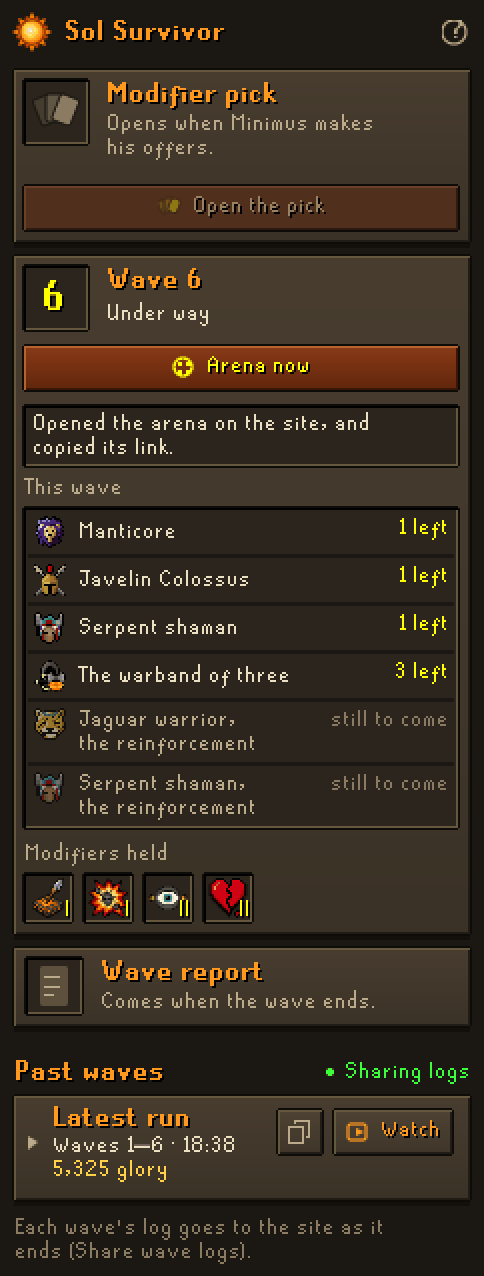
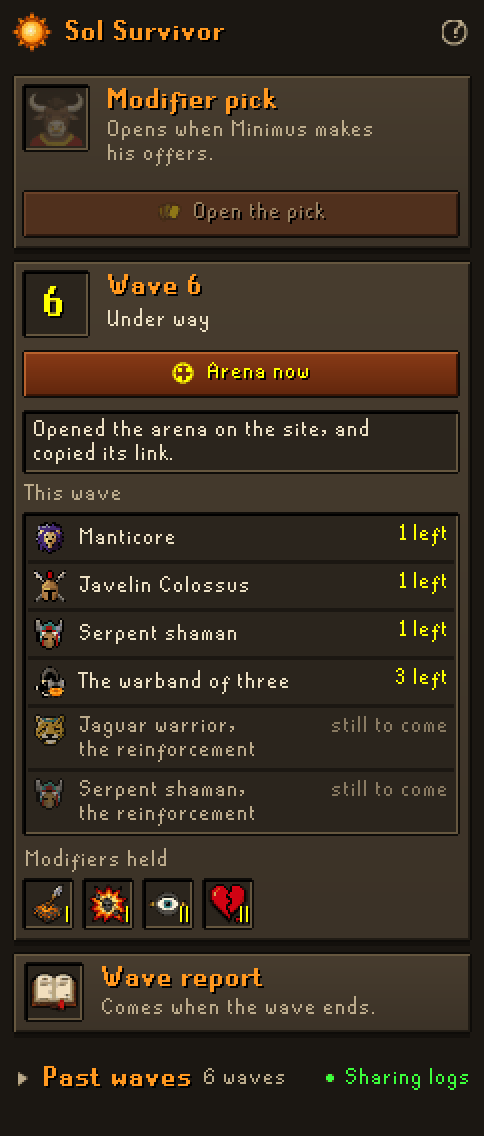
Sol Survivor 1.0.0, from Sol Survivor 156417baafd4

diff --git a/src/main/java/nl/dexanddice/solsurvivor/SolSurvivorPanel.java b/src/main/java/nl/dexanddice/solsurvivor/SolSurvivorPanel.java
@@ -45,9 +45,9 @@ import net.runelite.client.ui.PluginPanel;
  * page of its own, which takes the panel's place until Back; the death recap after a death; and on each past wave its
  * mistakes. Each row shows only in the moment it is about (the user's ask of 2026-10-26, "Plugin 1.0: what the panel
  * shows when"): the pick's only while Minimus offers, at the top; Arena now only in the arena; the recap only out of it,
- * after a death, over the rest; the leaderboard's only out of the arena; and during a wave the runs fold shut, unless
- * the player opened one. Like the rest of the plugin the panel shows nothing about how to play the wave; the plans are
- * the site's.
+ * after a death, over the rest; the leaderboard's only out of the arena; and in the arena Past waves fold into their
+ * heading until the player opens them (the user's ask of 2026-10-27). Like the rest of the plugin the panel shows nothing
+ * about how to play the wave; the plans are the site's.
  */
 class SolSurvivorPanel extends PluginPanel
 {
@@ -210,7 +210,8 @@ class SolSurvivorPanel extends PluginPanel
 	/** The help, in the tooltip of the question mark beside the panel's title. */
 	private static final String HELP = "Arena now opens the wave on the Sol Survivor site as it is now, and copies its link. "
 		+ "Modifier pick opens Minimus's three offers there while he makes them. Under Past waves, a wave's buttons open it at "
-		+ "its start, the wave under way too, or on the tick its reinforcements came, and copy its log to paste into the site. "
+		+ "its start, the wave under way too, or on the tick its reinforcements came, and copy its log to paste into the site; "
+		+ "in the arena, Past waves folds into its heading until you click it. "
 		+ "With Upload past runs on in the settings, Watch uploads that run's tiles, hitpoints, prayers, hits and recorded gear "
 		+ "to the site, where anyone with its link can view it for seven days. With Share wave logs on, each wave's log goes to "
 		+ "the site, without your levels, as the wave ends, and with Leaderboard on too, each wave you finish goes on "
@@ -269,6 +270,14 @@ class SolSurvivorPanel extends PluginPanel
 	private final Stone.Button removeTimes = new Stone.Button("Remove my times", null, false, small(), 7, 6);
 	/** Beside Past waves, while "Share wave logs" is on: each wave's log goes to the site as it ends. */
 	private final JLabel sharing = label("Sharing logs", small(), Stone.GOOD);
+	/**
+	 * Past waves' heading, which in the arena is the whole section until the player opens it (the user's ask of
+	 * 2026-10-27): its caret, and how many waves it holds while it is shut. Out of the arena it is a plain heading.
+	 */
+	private final JPanel pastHeading = clear(new BorderLayout(5, 0));
+	private final JLabel pastCaret = new JLabel(SHUT_ICON);
+	private final JPanel pastName = clear(new FlowLayout(FlowLayout.LEFT, 0, 0));
+	private final JLabel pastCount = label("", small(), Stone.MUTED);
 	private final JPanel runsBox = new JPanel();
 	/**
 	 * The Getting started card (the onboarding ideas of 2026-10-27, O1), at the top for a player new to the plugin: the
@@ -294,8 +303,10 @@ class SolSurvivorPanel extends PluginPanel
 	private String shownNote;
 	private Integer shownWave;
 	private List<Offer> shownOffers;
-	/** Whether a wave is under way, which folds the runs shut but those the player opened. */
-	private boolean shownUnderWay;
+	/** Whether the player is in the arena, where Past waves fold into their heading. */
+	private boolean shownInColosseum;
+	/** Whether the player opened Past waves in the arena; it shuts again as they leave it, so that each entry starts shut. */
+	private boolean pastOpen;
 	/** The panel's rows, top to bottom; each shows only in its moment, and has no size while it hides. */
 	private final List<JComponent> rows = new ArrayList<>();
 	/** The page that takes the rows' place, the wave report in full, or null while the rows show. */
@@ -341,7 +352,7 @@ class SolSurvivorPanel extends PluginPanel
 		showSharing(false);
 		showSends(false, false, false);
 		showBoard(null, false, true);
-		showState(false, false, null, "Not in the Colosseum", "Enter it to open a wave.", false, new ArrayList<>(), "", new ArrayList<>());
+		showState(false, false, null, "Not in the Colosseum", "Enter it to open a wave.", new ArrayList<>(), "", new ArrayList<>());
 	}
 
 	/** The rows in their order. */
@@ -530,16 +541,41 @@ class SolSurvivorPanel extends PluginPanel
 		revalidate();
 	}
 
+	/**
+	 * Past waves' heading: its name, and beside it while Share wave logs is on, that the logs go to the site. In the arena
+	 * a click on it folds the section open or shut, as on What you share's head.
+	 */
 	private JPanel pastHeading()
 	{
 		sharing.setIcon(Stone.dot(9, Stone.GOOD));
 		sharing.setIconTextGap(2);
 		sharing.setToolTipText("Share wave logs is on: each wave's log goes to the site as the wave ends.");
-		JPanel h = clear(new BorderLayout(4, 0));
-		h.add(new Stone.Shadowed("Past waves", bold(), Stone.ORANGE), BorderLayout.CENTER);
-		h.add(sharing, BorderLayout.EAST);
-		h.setBorder(new EmptyBorder(6, 1, 0, 1));
-		return h;
+		pastName.add(new Stone.Shadowed("Past waves", bold(), Stone.ORANGE));
+		pastName.add(Box.createHorizontalStrut(5));
+		pastName.add(pastCount);
+		pastCaret.setVisible(false);
+		pastHeading.add(pastCaret, BorderLayout.WEST);
+		pastHeading.add(pastName, BorderLayout.CENTER);
+		pastHeading.add(sharing, BorderLayout.EAST);
+		pastHeading.setBorder(new EmptyBorder(6, 1, 0, 1));
+		MouseAdapter fold = new MouseAdapter()
+		{
+			@Override
+			public void mouseClicked(MouseEvent e)
+			{
+				if (shownInColosseum)
+				{
+					pastOpen = !pastOpen;
+					buildRuns();
+				}
+			}
+		};
+		pastHeading.addMouseListener(fold);
+		for (Component c : pastHeading.getComponents())
+		{
+			c.addMouseListener(fold);
+		}
+		return pastHeading;
 	}
 
 	/** The Getting started card: its heading and Hide, the three steps, and the sample wave's button and what it opens. */
@@ -690,11 +726,11 @@ class SolSurvivorPanel extends PluginPanel
 
 	/**
 	 * What the panel shows, on the Swing thread: whether the player is in the Colosseum, whether the death recap shows,
-	 * the wave for the slot (null for none), the wave row's title and state, whether a wave is under way, Minimus's offers
-	 * while he makes them, a note in place of the runs when there are none, and the runs, newest first. The runs' rows are
-	 * built again only when they changed, so that a line under the mouse stays as it is.
+	 * the wave for the slot (null for none), the wave row's title and state, Minimus's offers while he makes them, a note
+	 * in place of the runs when there are none, and the runs, newest first. The runs' rows are built again only when they
+	 * changed, so that a line under the mouse stays as it is.
 	 */
-	void showState(boolean inColosseum, boolean recap, Integer wave, String title, String state, boolean underWay, List<Offer> offerList,
+	void showState(boolean inColosseum, boolean recap, Integer wave, String title, String state, List<Offer> offerList,
 		String note, List<RunGroup> runs)
 	{
 		boolean offers = !offerList.isEmpty();
@@ -744,13 +780,17 @@ class SolSurvivorPanel extends PluginPanel
 			revalidate();
 			repaint();
 		}
-		if (runs.equals(shownRuns) && note.equals(shownNote) && underWay == shownUnderWay)
+		if (runs.equals(shownRuns) && note.equals(shownNote) && inColosseum == shownInColosseum)
 		{
 			return;
 		}
+		if (!inColosseum)
+		{
+			pastOpen = false;
+		}
 		shownRuns = new ArrayList<>(runs);
 		shownNote = note;
-		shownUnderWay = underWay;
+		shownInColosseum = inColosseum;
 		buildRuns();
 	}
 
@@ -821,9 +861,34 @@ class SolSurvivorPanel extends PluginPanel
 		revalidate();
 	}
 
+	/**
+	 * Past waves: out of the arena the runs, as the player left each one; in the arena only the heading, with how many
+	 * waves it holds, until the player opens it, to keep the panel clean while they play (the user's ask of 2026-10-27).
+	 */
 	private void buildRuns()
 	{
 		runsBox.removeAll();
+		boolean open = !shownInColosseum || pastOpen;
+		int waves = 0;
+		for (RunGroup run : shownRuns)
+		{
+			waves += run.waves.size();
+		}
+		pastCaret.setIcon(open ? OPEN_ICON : SHUT_ICON);
+		pastCaret.setVisible(shownInColosseum);
+		pastCount.setText(waves == 0 ? "" : WaveCards.plural(waves, "wave"));
+		pastCount.setVisible(!open);
+		pastHeading.setCursor(shownInColosseum ? Cursor.getPredefinedCursor(Cursor.HAND_CURSOR) : null);
+		String tip = open ? null : "Your past waves, folded away in the arena. Click to show them; out of the arena they always show.";
+		pastCaret.setToolTipText(tip);
+		pastName.setToolTipText(tip);
+		runsBox.setVisible(open);
+		if (!open)
+		{
+			runsBox.revalidate();
+			runsBox.repaint();
+			return;
+		}
 		if (shownRuns.isEmpty())
 		{
 			Stone.Well empty = new Stone.Well(new BorderLayout(), 6, 7, 6, 7);
@@ -838,9 +903,9 @@ class SolSurvivorPanel extends PluginPanel
 			{
 				runsBox.add(gap(5));
 			}
-			// The newest run is open but during a wave, when they all fold shut to keep the panel short; a run the player
+			// The newest run is open, in the arena too once the player opened Past waves to see them; a run the player
 			// opened or shut stays as they left it.
-			runsBox.add(runRow(run, folded.getOrDefault(run.key, i == 0 && !shownUnderWay)));
+			runsBox.add(runRow(run, folded.getOrDefault(run.key, i == 0)));
 		}
 		runsBox.revalidate();
 		runsBox.repaint();

diff --git a/src/test/java/nl/dexanddice/solsurvivor/SolSurvivorPanelTest.java b/src/test/java/nl/dexanddice/solsurvivor/SolSurvivorPanelTest.java
@@ -1,0 +1,144 @@
+package nl.dexanddice.solsurvivor;
+
+import static org.junit.Assert.assertEquals;
+
+import java.awt.Component;
+import java.awt.Container;
+import java.awt.event.MouseEvent;
+import java.awt.event.MouseListener;
+import java.lang.reflect.Proxy;
+import java.util.ArrayList;
+import java.util.Arrays;
+import java.util.List;
+import javax.swing.JLabel;
+import org.junit.Test;
+
+/**
+ * Past waves fold into their heading in the arena, to keep the panel clean while the player plays, and show as before
+ * in the lobby and everywhere else out of it (the user's ask of 2026-10-27).
+ */
+public class SolSurvivorPanelTest
+{
+	private static final List<SolSurvivorPanel.Offer> NO_OFFERS = new ArrayList<>();
+
+	@Test
+	public void pastWavesShowOutOfTheArena()
+	{
+		SolSurvivorPanel panel = panel();
+		lobby(panel);
+		assertEquals(1, count(panel, "Latest run"));
+		assertEquals(1, count(panel, "Wave 5"));
+		assertEquals(0, count(panel, "6 waves"));
+	}
+
+	@Test
+	public void inTheArenaOnlyTheHeadingShows()
+	{
+		SolSurvivorPanel panel = panel();
+		arena(panel, true);
+		assertEquals(0, count(panel, "Latest run"));
+		assertEquals(1, count(panel, "6 waves"));
+		arena(panel, false);
+		assertEquals(0, count(panel, "Latest run"));
+	}
+
+	@Test
+	public void aClickOnTheHeadingOpensThemUntilThePlayerLeaves()
+	{
+		SolSurvivorPanel panel = panel();
+		arena(panel, true);
+		clickPastWaves(panel);
+		// Opened, the newest run shows its waves, so that the wave under way's start is one click away.
+		assertEquals(1, count(panel, "Latest run"));
+		assertEquals(1, count(panel, "Wave 5"));
+		assertEquals(0, count(panel, "6 waves"));
+		// It stays open as the wave ends.
+		arena(panel, false);
+		assertEquals(1, count(panel, "Latest run"));
+		clickPastWaves(panel);
+		assertEquals(0, count(panel, "Latest run"));
+		clickPastWaves(panel);
+
+		lobby(panel);
+		assertEquals(1, count(panel, "Latest run"));
+		// A click out of the arena folds nothing: there the heading is only a heading.
+		clickPastWaves(panel);
+		assertEquals(1, count(panel, "Latest run"));
+		// Back in, it starts shut again.
+		arena(panel, false);
+		assertEquals(0, count(panel, "Latest run"));
+	}
+
+	private static SolSurvivorPanel panel()
+	{
+		return new SolSurvivorPanel((SolSurvivorPanel.Actions) Proxy.newProxyInstance(SolSurvivorPanelTest.class.getClassLoader(),
+			new Class<?>[] {SolSurvivorPanel.Actions.class}, (p, m, a) -> null));
+	}
+
+	/** Wave 6 under way, or wave 5 done, in the arena. */
+	private static void arena(SolSurvivorPanel panel, boolean underWay)
+	{
+		panel.showState(true, false, 6, underWay ? "Wave 6" : "Wave 6 next", underWay ? "Under way" : "Between waves", NO_OFFERS, "",
+			runs(underWay));
+	}
+
+	private static void lobby(SolSurvivorPanel panel)
+	{
+		panel.showState(false, false, null, "Not in the Colosseum", "Enter it to open a wave.", NO_OFFERS, "", runs(false));
+	}
+
+	/** One run of waves 1 to 5, and wave 6 under way. */
+	private static List<SolSurvivorPanel.RunGroup> runs(boolean underWay)
+	{
+		List<SolSurvivorPanel.WaveRow> waves = new ArrayList<>();
+		waves.add(new SolSurvivorPanel.WaveRow(6, 6, underWay ? "Under way" : "0:25", underWay, true, false, null));
+		for (int w = 5; w >= 1; w--)
+		{
+			waves.add(new SolSurvivorPanel.WaveRow(w, w, "1:15", false, true, true, null));
+		}
+		return Arrays.asList(new SolSurvivorPanel.RunGroup(1, "Latest run", "Waves 1–6", null, waves));
+	}
+
+	/** Clicks Past waves' heading, as the player would. */
+	private static void clickPastWaves(SolSurvivorPanel panel)
+	{
+		Component heading = labels(panel, "Past waves").get(0).getParent().getParent();
+		for (MouseListener l : heading.getMouseListeners())
+		{
+			l.mouseClicked(new MouseEvent(heading, MouseEvent.MOUSE_CLICKED, 0, 0, 1, 1, 1, false));
+		}
+	}
+
+	/** How many labels with the text show in the panel: in it, and they and every one of their parents visible. */
+	private static int count(SolSurvivorPanel panel, String text)
+	{
+		int n = 0;
+		for (JLabel l : labels(panel, text))
+		{
+			Component c = l;
+			while (c != null && c != panel && c.isVisible())
+			{
+				c = c.getParent();
+			}
+			n += c == panel ? 1 : 0;
+		}
+		return n;
+	}
+
+	private static List<JLabel> labels(Container in, String text)
+	{
+		List<JLabel> out = new ArrayList<>();
+		for (Component c : in.getComponents())
+		{
+			if (c instanceof JLabel && text.equals(((JLabel) c).getText()))
+			{
+				out.add((JLabel) c);
+			}
+			if (c instanceof Container)
+			{
+				out.addAll(labels((Container) c, text));
+			}
+		}
+		return out;
+	}
+}

diff --git a/src/main/java/nl/dexanddice/solsurvivor/SolSurvivorPlugin.java b/src/main/java/nl/dexanddice/solsurvivor/SolSurvivorPlugin.java
@@ -2622,7 +2622,7 @@ public class SolSurvivorPlugin extends Plugin
 		shownBoardOpen = boardOpen;
 		SwingUtilities.invokeLater(() ->
 		{
-			p.showState(colosseum, recap != null, colosseum ? wave : null, title, state, during, offers, note, runs);
+			p.showState(colosseum, recap != null, colosseum ? wave : null, title, state, offers, note, runs);
 			p.showSharing(sharing);
 			p.showBoard(boardRow, sharing, boardOpen);
 		});

diff --git a/README.md b/README.md
@@ -15,8 +15,8 @@ wave's NPCs, and your attack range.
 
 ## How it works
 
-1. In the Colosseum, press **Arena now** in the Sol Survivor panel at any point in a wave, or the play button on the
-   wave's line under **Past waves** to open it as it was on its first tick.
+1. In the Colosseum, press **Arena now** in the Sol Survivor panel at any point in a wave, or click **Past waves**
+   open and press the play button on the wave's line to open it as it was on its first tick.
 2. The planner opens in your browser with the wave as it is in game: the NPCs on their tiles, you on yours, and the
    modifiers you took. Each link the plugin opens closes the tab it opened before, so one tab keeps up with you. With **Include gear and stats** on, it also knows how quickly your gear kills each NPC.
 3. Press **Solve wave**. Your own computer does the searching, so it gets busy for a while
@@ -59,13 +59,14 @@ work. Expect your computer to notice.
 
 ## The panel
 
-<img src="images/panel.png" width="242" align="right" alt="The Sol Survivor panel in RuneLite during wave 6: the Modifier pick greyed until Minimus offers; the wave's row with Arena now and the wave's NPCs by their faces, with how many are left and the reinforcements still to come, and the modifiers held by their pictures; the wave report to come; and past waves, the latest run folded shut during the wave">
+<img src="images/panel.png" width="242" align="right" alt="The Sol Survivor panel in RuneLite during wave 6: the Modifier pick greyed until Minimus offers; the wave's row with Arena now and the wave's NPCs by their faces, with how many are left and the reinforcements still to come, and the modifiers held by their pictures; the wave report to come; and Past waves folded into its heading, as it is in the arena">
 
 It opens by itself as you enter the Colosseum, and from the sun in RuneLite's sidebar at any time. It wears the Sol
 Survivor site's stone look, and each part of it shows only when it is about the moment you are in. The row at the top
 is for the wave you are in, with its number. In the arena its **Arena now** opens the wave as it is right now, with the
 fight so far, and a line under it says what the last button did; out of the arena it is greyed. To open the wave as
-it was on its first tick, press the play button on its line under Past waves.
+it was on its first tick, press the play button on its line under Past waves, which in the arena opens with a click
+on its heading.
 
 In the same row, the panel lists the wave by the NPCs' faces: each with how many are left, struck through as they
 die, the reinforcements still to come, and the modifiers you hold by their pictures and tiers, with Doom's stacks as
@@ -81,7 +82,9 @@ without leaving the game.
 
 **Past waves** lists your last 25 waves, grouped by run, newest first, and keeps them when RuneLite closes. Each
 wave's line gives its time and the glory it earned, by the game's own counter, and its mistakes, or "clean", once its
-report is in; each run adds up its glory under its head. Click a run's head to fold it open or shut; during a wave the runs fold shut, but one you opened. Each wave's line has three buttons:
+report is in; each run adds up its glory under its head. In the arena, Past waves folds into its heading, with how
+many waves it holds, to keep the panel clean while you play: click the heading to open it. In the lobby it always
+shows. Click a run's head to fold it open or shut. Each wave's line has three buttons:
 
 - The play button opens the wave as it was on its first tick.
 - The two-figure button opens it on the tick its reinforcements came.
